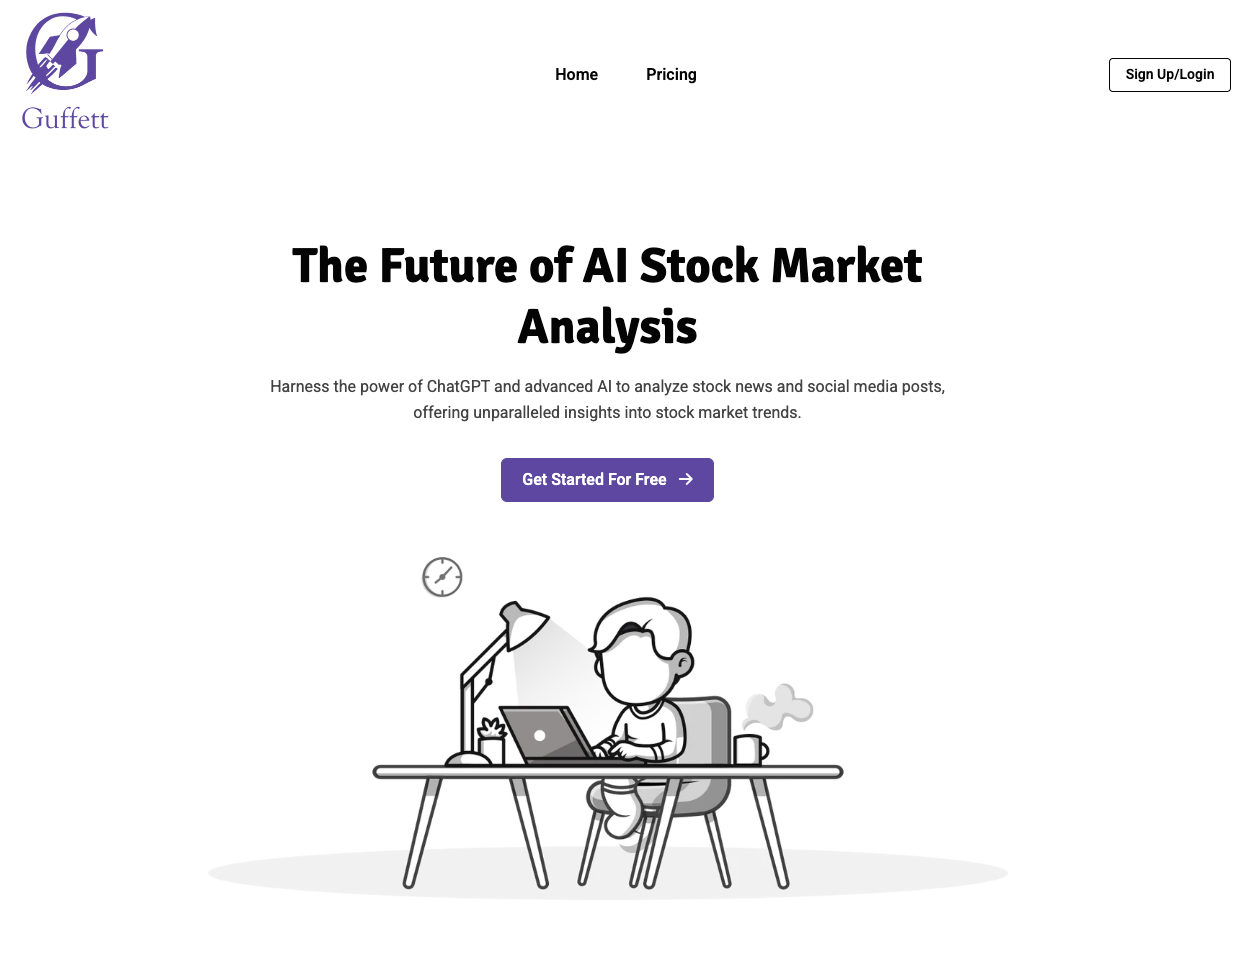
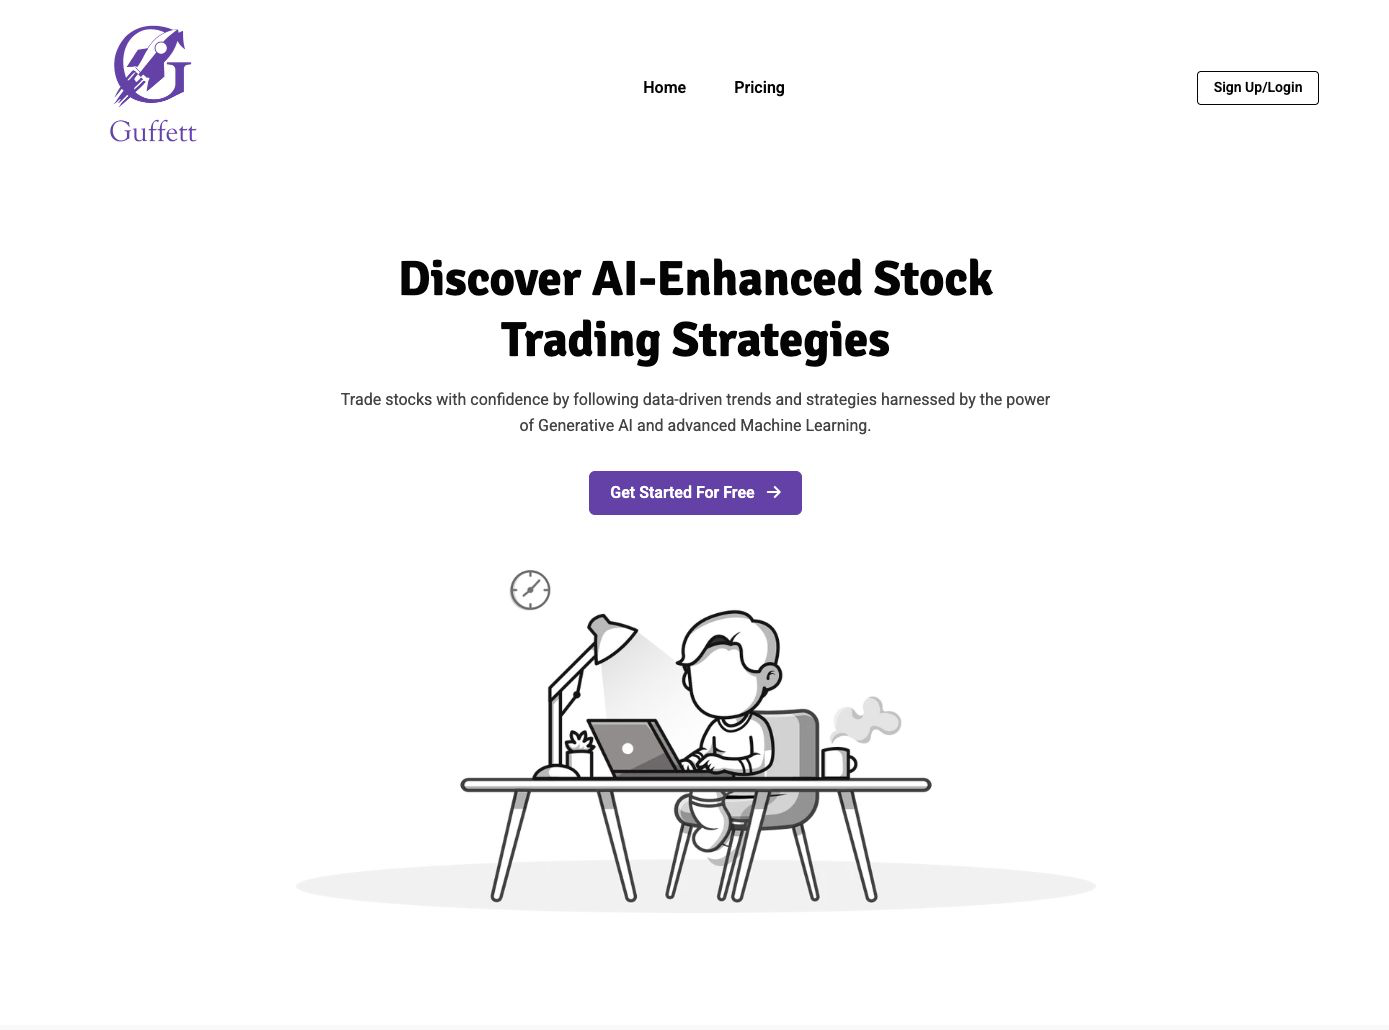
update landing page

diff --git a/content/english/_index.md b/content/english/_index.md
@@ -1,8 +1,8 @@
 ---
 # Banner
 banner:
-  title: "The Future of AI Stock Market Analysis"
-  content: "Harness the power of ChatGPT and advanced AI to analyze stock news and social media posts, offering unparalleled insights into stock market trends."
+  title: "Discover AI-Enhanced Stock Trading Strategies"
+  content: "Trade stocks with confidence by following data-driven trends and strategies harnessed by the power of Generative AI  and advanced Machine Learning."
   image: "/images/banner.png"
   button:
     enable: true
@@ -13,7 +13,7 @@ banner:
 features:
   - title: "How Guffett.io Works"
     image: "/images/service-1.png"
-    content: "At Guffett.io, our process begins with comprehensive data collection, where we gather the latest stock news and social media posts. This information is then intricately analyzed by ChatGPT, identifying key market sentiments and trends. The insights are fed into our sophisticated trading algorithms, each trained on historical data, enabling them to predict future market movements with remarkable accuracy."
+    content: "At Guffett.io, our process begins with comprehensive data collection, where we gather the latest stock news and social media posts. This information is then intricately analyzed by Generative AI , identifying key market sentiments and trends. The insights are fed into our sophisticated trading algorithms, each trained on historical data, enabling them to predict future market movements with remarkable accuracy."
     #    bulletpoints:
     #      - "10+ Pre-build pages"
     #      - "95+ Google Pagespeed Score"
